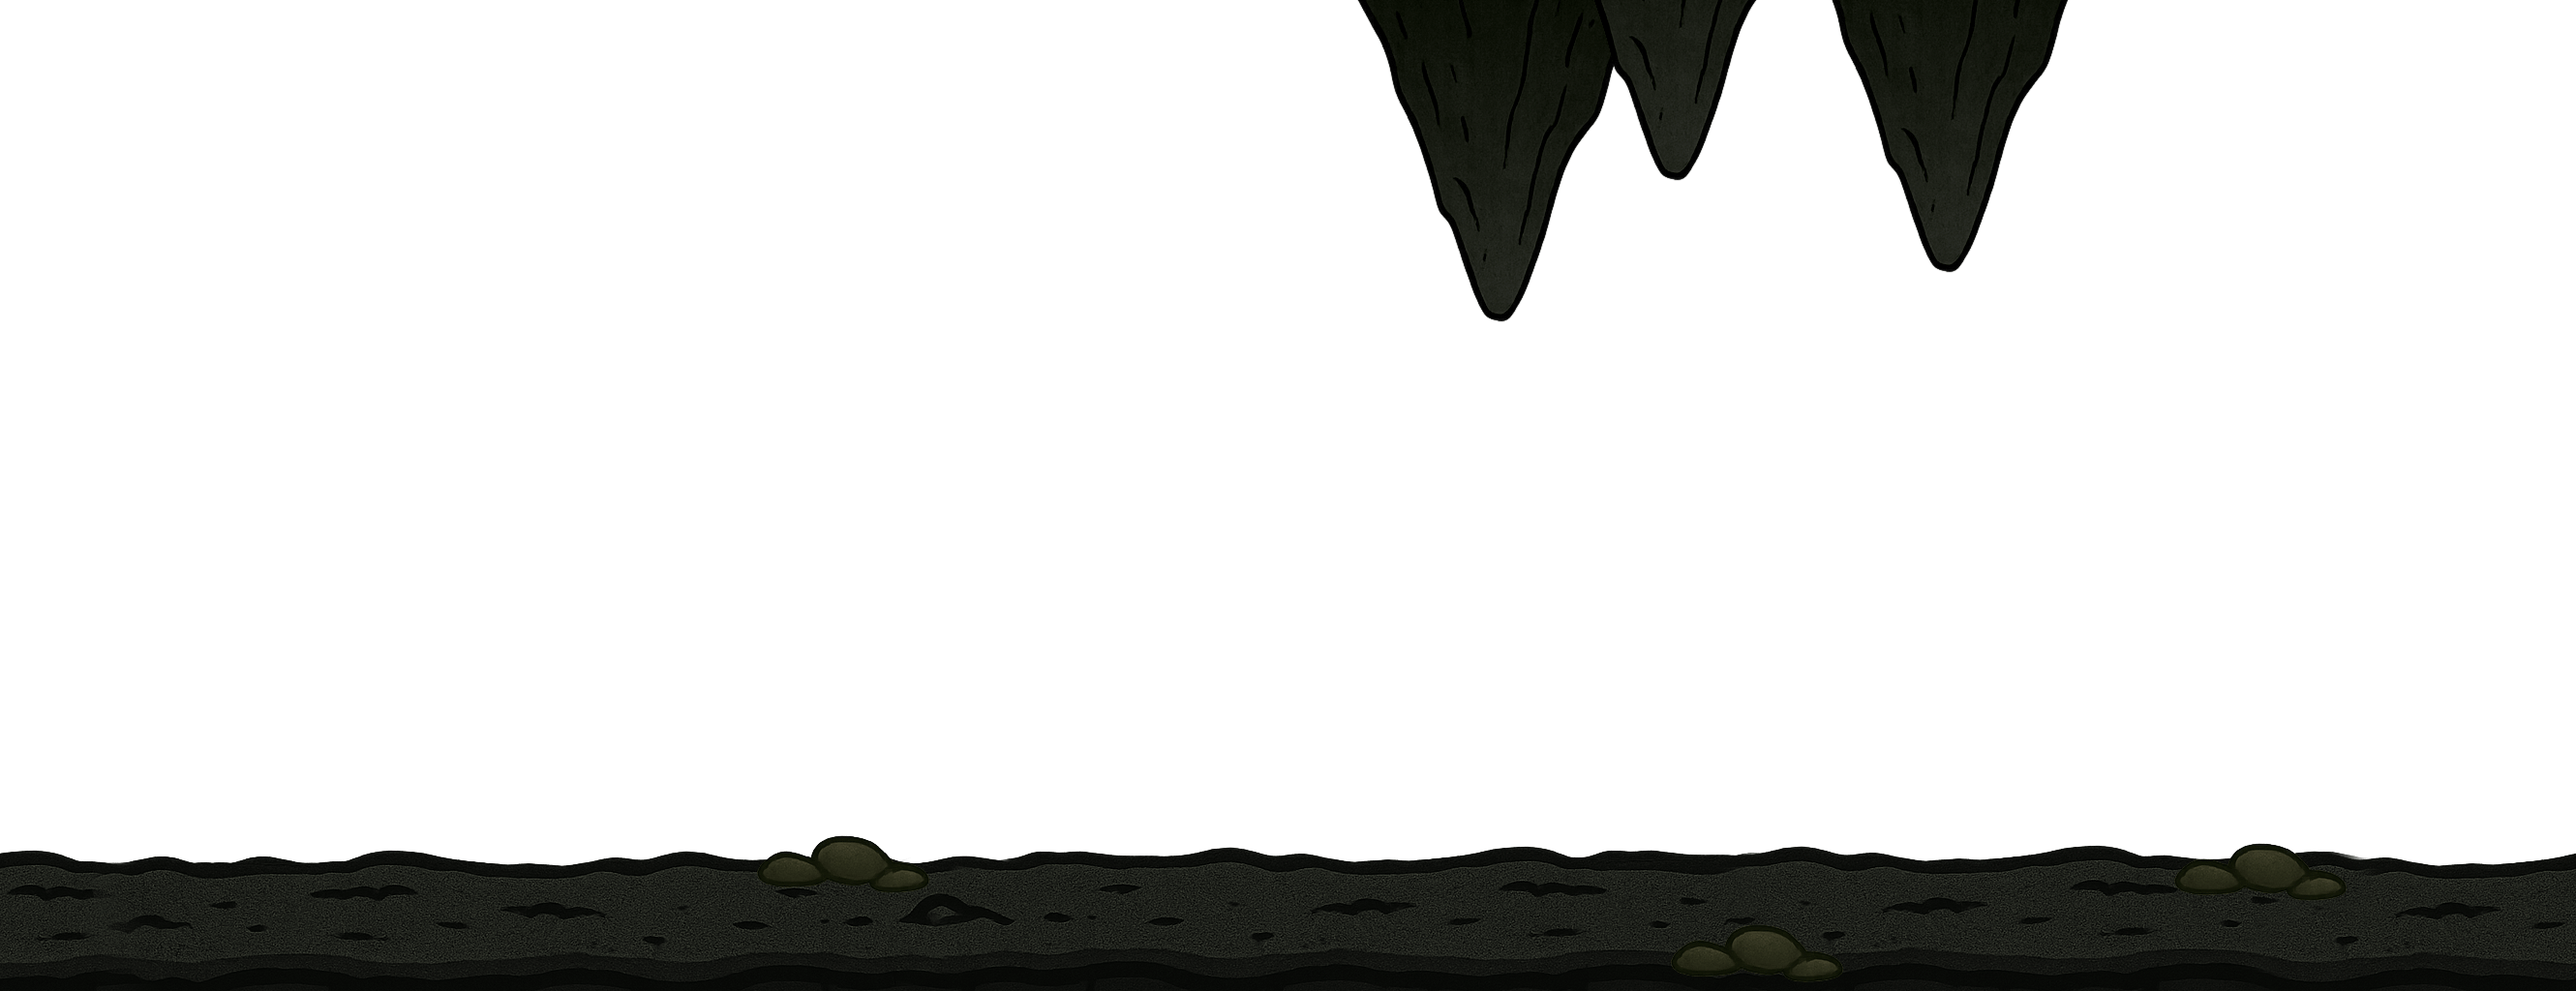
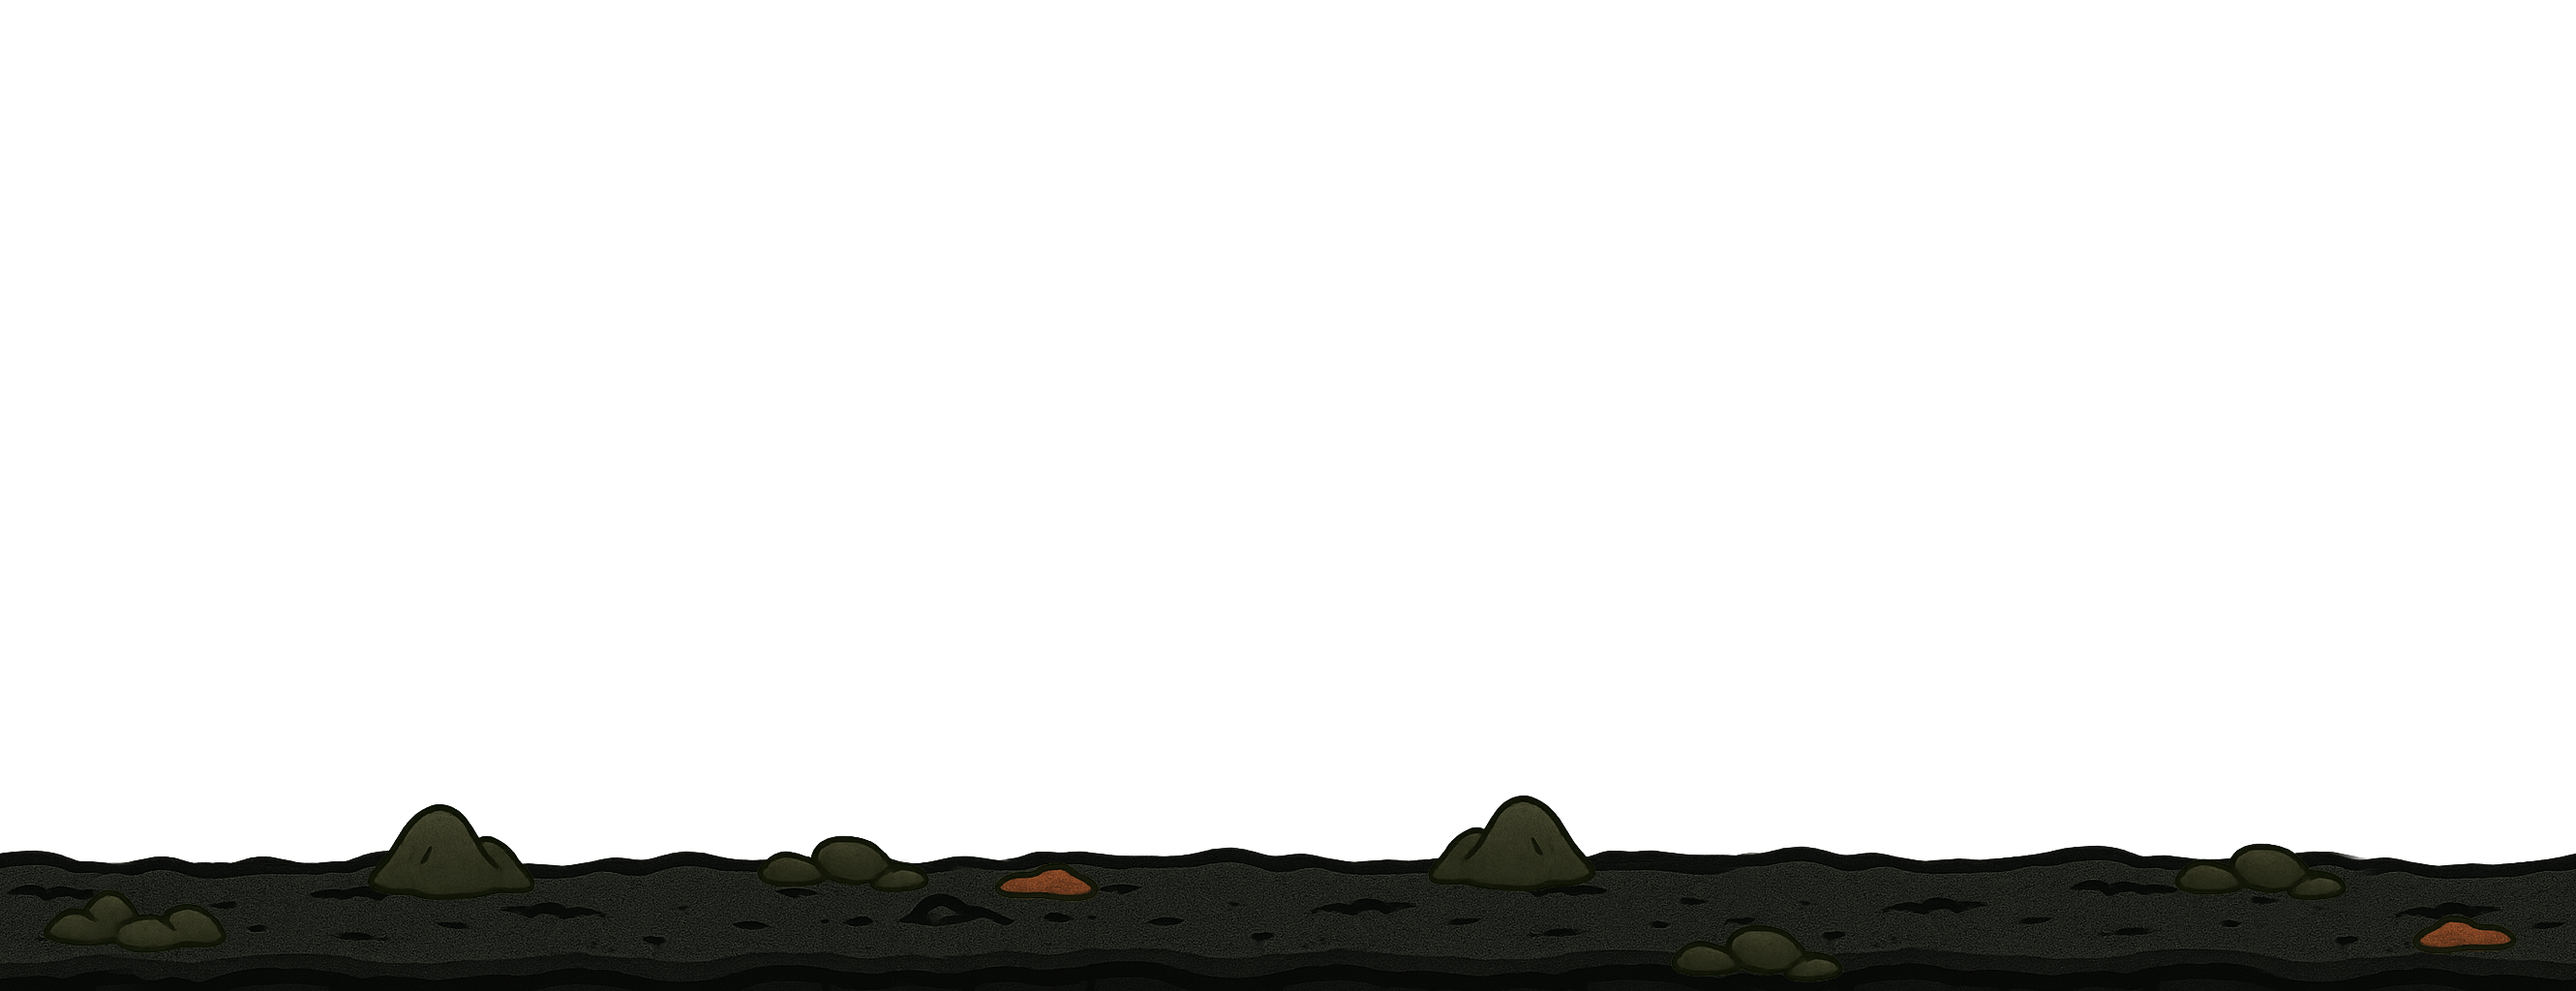
fix (app): fexed spawn Kraken position, remove wrong bg on 3 lvl, reduced mollusk spread by 3 lvl

diff --git a/src/scenes/levels/Level3Scene.ts b/src/scenes/levels/Level3Scene.ts
@@ -54,7 +54,7 @@ export default class Level1Scene extends GameScene {
   }
 
   private spawnKraken() {
-    this.kraken = new EnemyKraken(this, this.cameras.main.width - 2000, this.scale.height / 2);
+    this.kraken = new EnemyKraken(this, -2000, this.scale.height / 2);
 
     this.physics.add.overlap(
       this.kraken.getMouthCollider(),

diff --git a/src/config.ts b/src/config.ts
@@ -87,6 +87,8 @@ export const config = {
       mollusks: {
         count: 18,
         indent: {
+          top: 230,
+          bottom: 230,
           left: 800,
         },
       }
